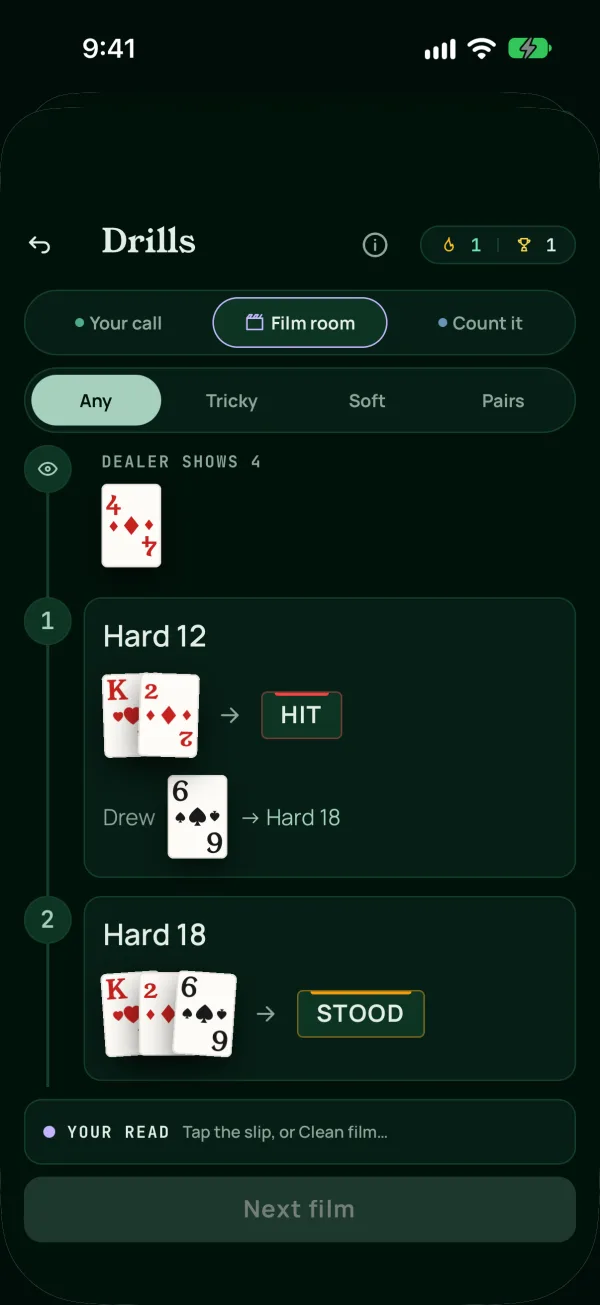
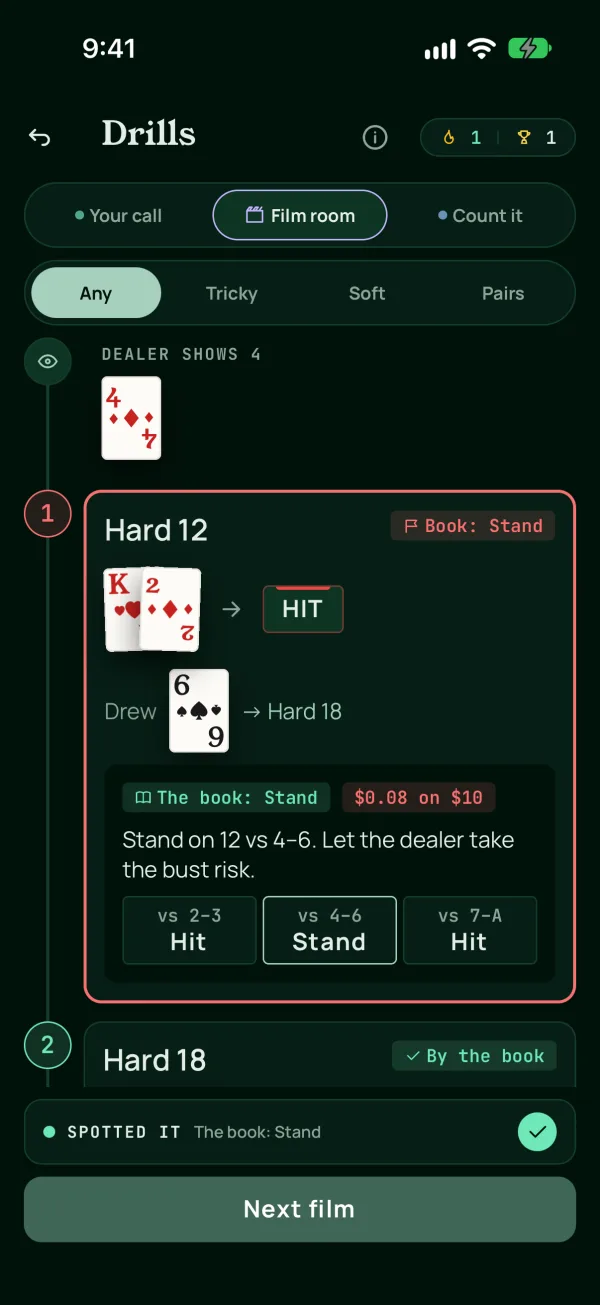
Clean full-screen shots for the coach's odds and the film room

diff --git a/index.html b/index.html
@@ -181,12 +181,12 @@
           </p>
           <p>
             In the film room, a hand plays out step by step. Somewhere a player went off the book,
-            and your job is to spot it. Can you find the slip in this one?
+            and your job is to spot it. Then the coach shows what the book does and why.
           </p>
         </div>
         <div class="duo">
           <div class="shot"><img src="/img/drills-run.webp" alt="A Your call drill: hard 11 against a 9, graded by the book" loading="lazy" /></div>
-          <div class="shot"><img src="/img/drills-film.webp" alt="The film room: against a dealer 4, a player hit hard 12, drew a 6 and stood on 18. Tap the slip." loading="lazy" /></div>
+          <div class="shot"><img src="/img/drills-film.webp" alt="The film room: against a dealer 4, a player hit hard 12. Spotted it, the book stands on 12 against 4 to 6." loading="lazy" /></div>
         </div>
       </section>
 
